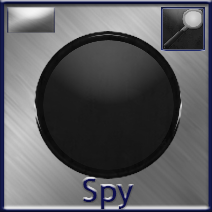
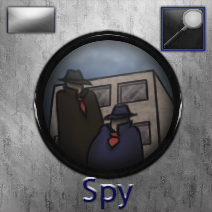
jon

diff --git a/Nukes of the patriots/Communist.cpp b/Nukes of the patriots/Communist.cpp
@@ -983,9 +983,9 @@ void Communist::initializeCommunistWindow()
 	mCancelUpgradeSpaceProgramButton	= GUIButton::create(CommunistButtons["CancelUpgradeSpaceProgram"], mUpgradeWindow);
 	mCancelUpgradeSpyNetworkButton		= GUIButton::create(CommunistButtons["CancelUpgradeSpyNetwork"], mUpgradeWindow);
 	
-	mSpyPanel							= GUIImage::create(std::pair<sf::FloatRect, sf::Texture*>(sf::FloatRect(358, 60, 212, 212), &ResourceHandler::getInstance()->getTexture(std::string("Communist/spy_panel"))), mUpgradeWindow);
-	mSpacePanel							= GUIImage::create(std::pair<sf::FloatRect, sf::Texture*>(sf::FloatRect(179, 97, 212, 212), &ResourceHandler::getInstance()->getTexture(std::string("Communist/space_panel"))), mUpgradeWindow);
-	mNuclearPanel						= GUIImage::create(std::pair<sf::FloatRect, sf::Texture*>(sf::FloatRect(0, 135, 212, 212), &ResourceHandler::getInstance()->getTexture(std::string("Communist/nuclear_panel"))), mUpgradeWindow);
+	mSpyPanel							= GUIImage::create(std::pair<sf::FloatRect, sf::Texture*>(sf::FloatRect(359, 60, 200, 200), &ResourceHandler::getInstance()->getTexture(std::string("Communist/spy_panel"))), mUpgradeWindow);
+	mSpacePanel							= GUIImage::create(std::pair<sf::FloatRect, sf::Texture*>(sf::FloatRect(184, 97, 200, 200), &ResourceHandler::getInstance()->getTexture(std::string("Communist/space_panel"))), mUpgradeWindow);
+	mNuclearPanel						= GUIImage::create(std::pair<sf::FloatRect, sf::Texture*>(sf::FloatRect(9, 135, 200, 200), &ResourceHandler::getInstance()->getTexture(std::string("Communist/nuclear_panel"))), mUpgradeWindow);
 
 	mBuyNuclearText						= GUIText::create(sf::FloatRect(31, 152, 22, 22), "0", mUpgradeWindow);
 	mBuyNuclearText->setAlignment("middle");

diff --git a/Nukes of the patriots/Capitalist.cpp b/Nukes of the patriots/Capitalist.cpp
@@ -811,9 +811,9 @@ void Capitalist::initializeCapitalistWindow()
 	mCancelUpgradeSpyNetworkButton		= GUIButton::create(CapitalistButtons["CancelUpgradeSpyNetwork"], mUpgradeWindow);
 	mUpgradeCloseButton					= GUIButton::create(CapitalistButtons["CloseUpgrade"], mUpgradeWindow);
 
-	mSpyPanel		= GUIImage::create(std::pair<sf::FloatRect, sf::Texture*>(sf::FloatRect(358, 60, 212, 212), &ResourceHandler::getInstance()->getTexture(std::string("Capitalist/spy_panel"))), mUpgradeWindow);
-	mSpacePanel		= GUIImage::create(std::pair<sf::FloatRect, sf::Texture*>(sf::FloatRect(179, 97, 212, 212), &ResourceHandler::getInstance()->getTexture(std::string("Capitalist/space_panel"))), mUpgradeWindow);
-	mNuclearPanel	= GUIImage::create(std::pair<sf::FloatRect, sf::Texture*>(sf::FloatRect(0, 135, 212, 212), &ResourceHandler::getInstance()->getTexture(std::string("Capitalist/nuclear_panel"))), mUpgradeWindow);
+	mSpyPanel		= GUIImage::create(std::pair<sf::FloatRect, sf::Texture*>(sf::FloatRect(359, 60, 200, 200), &ResourceHandler::getInstance()->getTexture(std::string("Capitalist/spy_panel"))), mUpgradeWindow);
+	mSpacePanel		= GUIImage::create(std::pair<sf::FloatRect, sf::Texture*>(sf::FloatRect(184, 97, 200, 200), &ResourceHandler::getInstance()->getTexture(std::string("Capitalist/space_panel"))), mUpgradeWindow);
+	mNuclearPanel	= GUIImage::create(std::pair<sf::FloatRect, sf::Texture*>(sf::FloatRect(9, 135, 200, 200), &ResourceHandler::getInstance()->getTexture(std::string("Capitalist/nuclear_panel"))), mUpgradeWindow);
 
 	mBuyNuclearText						= GUIText::create(sf::FloatRect(31, 152, 22, 22), "0", mUpgradeWindow);
 	mBuyNuclearText->setAlignment("middle");

diff --git a/Nukes of the patriots/Menu.h b/Nukes of the patriots/Menu.h
@@ -78,8 +78,6 @@ private:
 	std::shared_ptr<GUIButton> mExitButton;
 
 
-	std::shared_ptr<GUIWindow> mInGameMenuWindow;
-
 	std::shared_ptr<GUIButton> mResumeGameButton;
 	std::shared_ptr<GUIButton> mRestartGameButton;
 	std::shared_ptr<GUIButton> mSaveGameButton;
